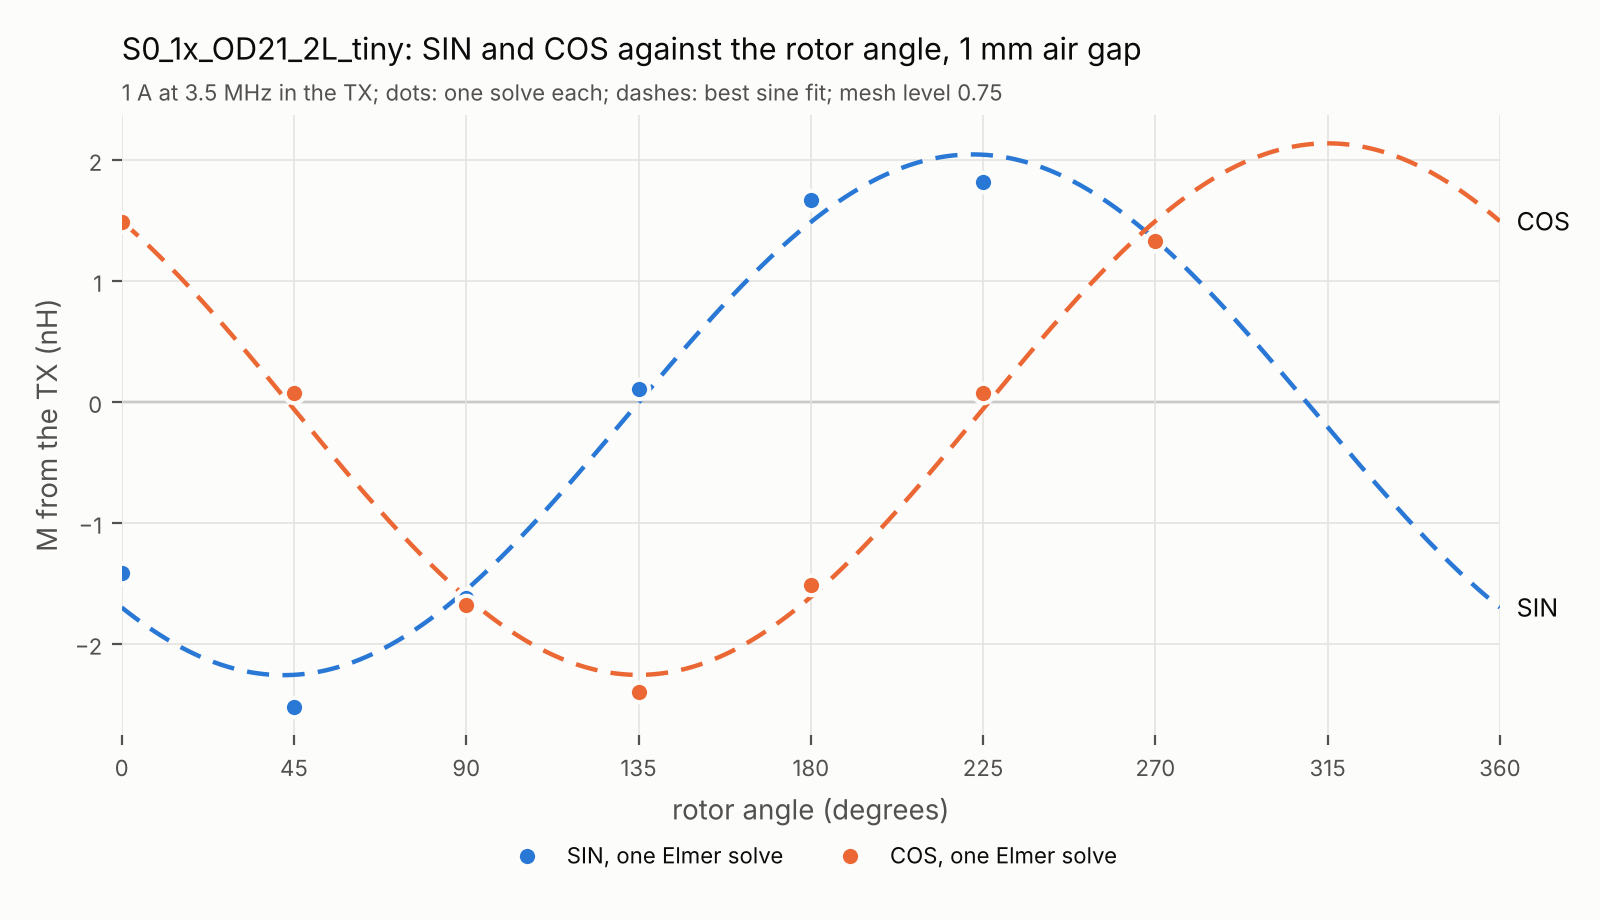
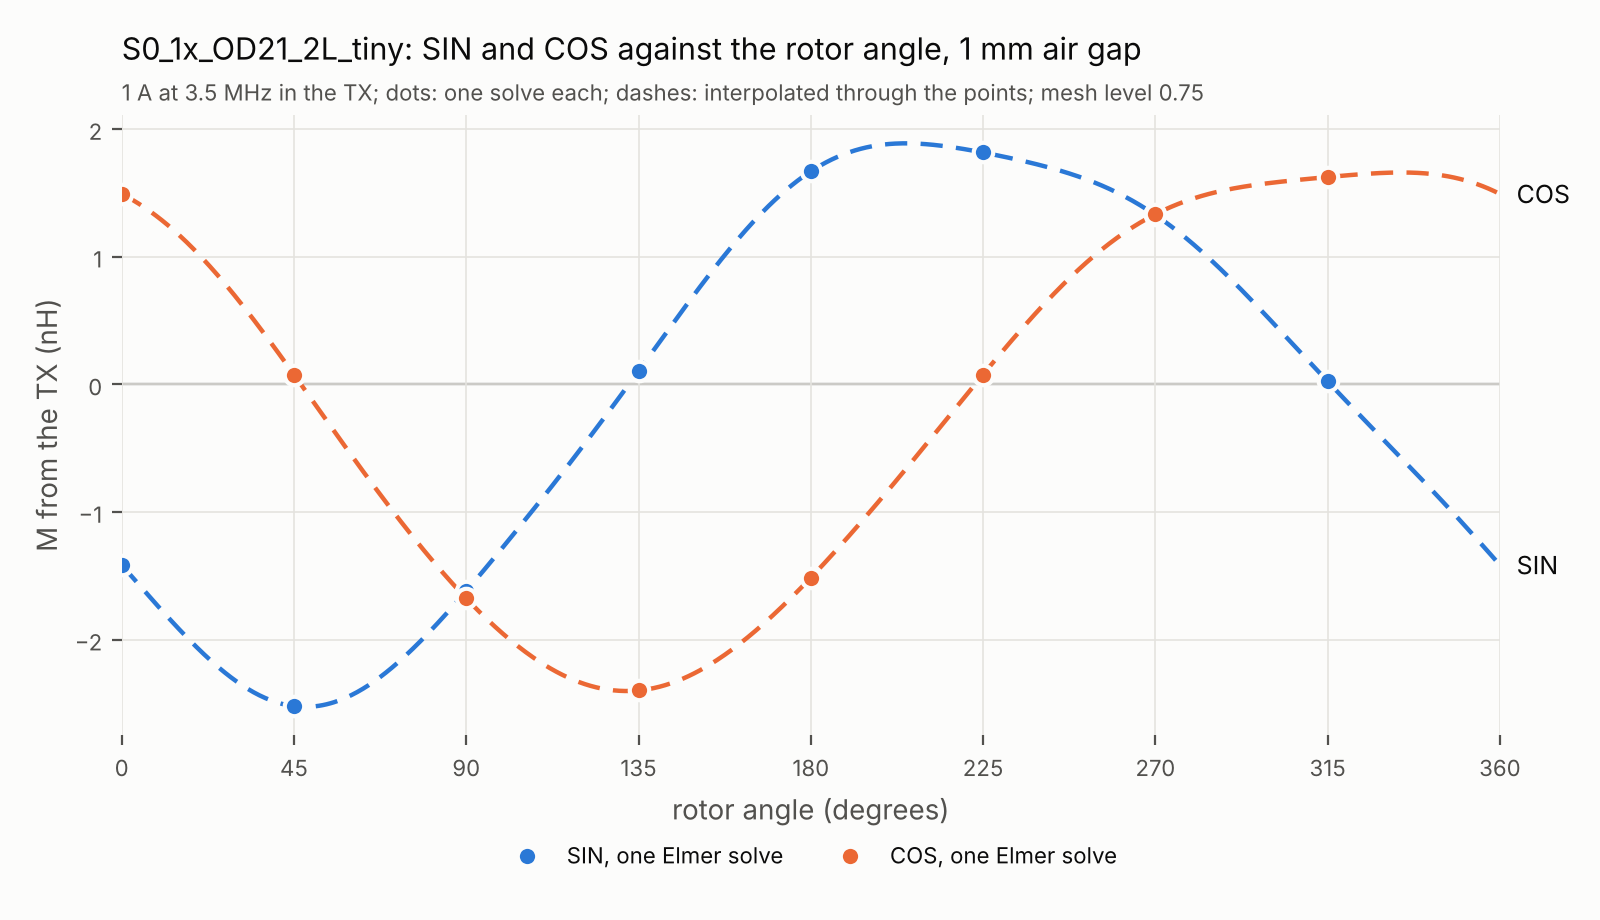
S0: 1 mm, all 8 angles solved

diff --git a/Examples/Inductive Coils/S0_1x_OD21_2L_tiny/Results/SINCOS_Results.md b/Examples/Inductive Coils/S0_1x_OD21_2L_tiny/Results/SINCOS_Results.md
@@ -4,31 +4,32 @@ A coil set made with the [Sinusoidal Coil Generator](https://github.com/RolandTh
 
 | Air gap | Angles solved | Amplitude SIN / COS | Angle error |
 |---|---|---|---|
-| 1 mm | 7 of 8 | 2.15 / 2.20 nH (47 / 48 mV) | 3.9° rms, 5.4° peak so far |
+| 1 mm | 8 of 8 | 2.15 / 2.07 nH (47 / 45 mV) | 4.6° rms, 7.1° peak |
 
 ## 1 mm air gap
 
 ![SIN and COS against the rotor angle at a 1 mm air gap](results_gap1mm.png)
 
-*Figure 1. SIN (blue) and COS (orange) at a 1 mm air gap: the mutual inductance from the TX against the rotor's angle, 7 of 8 angles solved. Each dot is one Elmer solve; the dashes are the best sine fit. SIN swings ±2.15 nH and COS ±2.20 nH, that is ±47 and ±48 mV of EMF.*
+*Figure 1. SIN (blue) and COS (orange) at a 1 mm air gap: the mutual inductance from the TX against the rotor's angle, 8 of 8 angles solved. Each dot is one Elmer solve; the dashes are interpolated through them. SIN swings ±2.15 nH and COS ±2.07 nH, that is ±47 and ±45 mV of EMF.*
 
-Best sine fit: SIN amplitude 2.153 nH, offset -0.106 nH, phase -132.3°; COS amplitude 2.197 nH, offset -0.059 nH, phase 135.0°. Angle error so far, with the offset and gain of each channel calibrated out (worked out as below): 3.9° rms and 5.4° at worst, in electrical degrees, the same as mechanical degrees here. SIN and COS are 92.7° apart, against 90° for perfect quadrature.
+Best sine fit: SIN amplitude 2.151 nH, offset -0.077 nH, phase -133.8°; COS amplitude 2.069 nH, offset -0.124 nH, phase 135.0°. Angle error, with the offset and gain of each channel calibrated out (worked out as below): 4.6° rms and 7.1° at worst, in electrical degrees, the same as mechanical degrees here. SIN and COS are 91.2° apart, against 90° for perfect quadrature.
 
 | Rotor | M SIN (nH) | M COS (nH) | Angle error | L TX (nH) | R TX (mΩ) | Iterations | Residual | Memory | Time |
 |---|---|---|---|---|---|---|---|---|---|
-| 0° | -1.4155 | 1.4914 | -5.37° | 103.084 | 358.78 | 1500 | 4.0e-04 | 11.4 GB | 25 min |
-| 45° | -2.5211 | 0.0766 | -4.29° | 108.283 | 332.80 | 1500 | 2.8e-04 | 11.4 GB | 26 min |
-| 90° | -1.6190 | -1.6767 | +0.19° | 107.701 | 333.28 | 1500 | 2.7e-04 | 11.5 GB | 24 min |
-| 135° | 0.1041 | -2.3979 | +4.11° | 107.784 | 334.86 | 1500 | 2.7e-04 | 11.4 GB | 24 min |
-| 180° | 1.6682 | -1.5147 | +5.08° | 106.140 | 329.85 | 1500 | 2.9e-04 | 11.3 GB | 25 min |
-| 225° | 1.8161 | 0.0767 | +2.83° | 101.053 | 365.87 | 1500 | 4.8e-04 | 11.3 GB | 25 min |
-| 270° | 1.3267 | 1.3324 | -2.56° | 101.022 | 326.93 | 1500 | 4.3e-04 | 11.3 GB | 25 min |
+| 0° | -1.4155 | 1.4914 | -7.07° | 103.084 | 358.78 | 1500 | 4.0e-04 | 11.4 GB | 25 min |
+| 45° | -2.5211 | 0.0766 | -5.50° | 108.283 | 332.80 | 1500 | 2.8e-04 | 11.4 GB | 26 min |
+| 90° | -1.6190 | -1.6767 | +0.69° | 107.701 | 333.28 | 1500 | 2.7e-04 | 11.5 GB | 24 min |
+| 135° | 0.1041 | -2.3979 | +3.76° | 107.784 | 334.86 | 1500 | 2.7e-04 | 11.4 GB | 24 min |
+| 180° | 1.6682 | -1.5147 | +4.73° | 106.140 | 329.85 | 1500 | 2.9e-04 | 11.3 GB | 25 min |
+| 225° | 1.8161 | 0.0767 | +5.65° | 101.053 | 365.87 | 1500 | 4.8e-04 | 11.3 GB | 25 min |
+| 270° | 1.3267 | 1.3324 | +1.52° | 101.022 | 326.93 | 1500 | 4.3e-04 | 11.3 GB | 25 min |
+| 315° | 0.0230 | 1.6238 | -3.79° | 98.618 | 318.65 | 1500 | 4.7e-04 | 11.4 GB | 25 min |
 
-7 of 7 solves stopped at the 1500-iteration cap, with the residual between 2.7e-04 and 4.8e-04 rather than the 1e-07 asked for. The TX is round, so turning the rotor should not change its inductance: its spread here, 101.0 to 108.3 nH, is a measure of what the solver leaves.
+8 of 8 solves stopped at the 1500-iteration cap, with the residual between 2.7e-04 and 4.8e-04 rather than the 1e-07 asked for. The TX is round, so turning the rotor should not change its inductance: its spread here, 98.6 to 108.3 nH, is a measure of what the solver leaves.
 
 ## Against the expectation
 
-The generator estimates the TX at 132 nH with the rotor away and 109 nH with it (its drop with the rotor is an upper estimate). Elmer gives 101.0 to 108.3 nH with the rotor at 1 mm. The expected values are in [expected_results.json](expected_results.json).
+The generator estimates the TX at 132 nH with the rotor away and 109 nH with it (its drop with the rotor is an upper estimate). Elmer gives 98.6 to 108.3 nH with the rotor at 1 mm. The expected values are in [expected_results.json](expected_results.json).
 
 ## How the angle error is worked out
 
